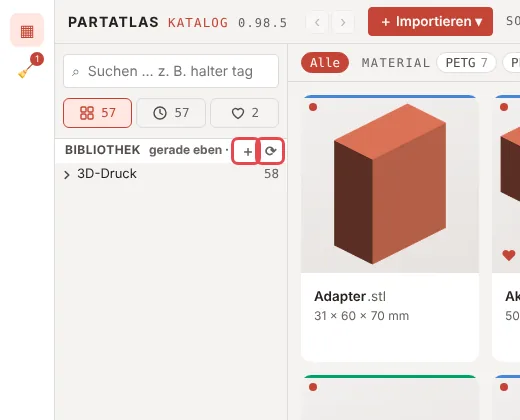
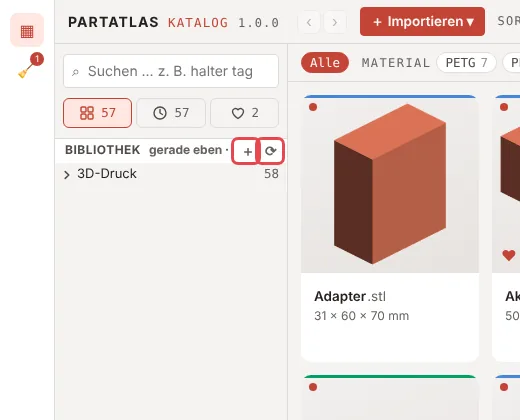
Fassung 1.0.0 vorbereitet: Update-Notiz fasst alles seit 0.95.7 zusammen, Vorschaufarbe ausgeblendet, Handbuch-Bilder neu
- neuigkeiten: ein Eintrag 1.0.0 statt der Zwischenfassungen, die nie auf
  main waren; Fliesstext im Fenster bricht nur zwischen Wörtern um.
- Einstellungen › Ansicht: „Farbe der Vorschaubilder“ ausgeblendet, bis sie
  wirkt.
- README: Rückweg über den Zweig fassung-0.95.7.

Claude-Session: https://claude.ai/code/session_01QtSDAZUfB2Sx37bC6sy5Tc

Changed region(s): [[0.6769, 0.0, 1.0, 0.0929], [0.4615, 0.031, 0.5538, 0.0619], [0.5846, 0.031, 0.6154, 0.0619]]

diff --git a/partatlas/web/baugruppen.js b/partatlas/web/baugruppen.js
@@ -621,11 +621,8 @@ async function einstellungen() {
       <div class="i-titel">UNTER DEM NAMEN</div>
       ${Object.entries(KACHEL_ZEILEN).map(([k, z]) => `<label><input type="checkbox" data-kachel-zeile="${k}" ${zustand.kachelZeilen.includes(k) ? "checked" : ""}> ${z.titel}</label>`).join("")}
       <p class="dim">Mehr Zeilen machen die Kachel etwas höher. Gilt für diesen Browser und wirkt sofort.</p>
-      <div class="i-titel">FARBE DER VORSCHAUBILDER</div>
-      <div class="farbfelder">${FARBEN.map(([n, h]) => `<button type="button" class="farbfeld ${h === e.vorschau_farbe ? "aktiv" : ""}" data-vf-farbe="${h}" title="${n}" style="background:${h}"></button>`).join("")}
-        <button type="button" class="knopf ${e.vorschau_farbe ? "" : "aktiv"}" data-vf-farbe="">Vorgabe</button></div>
-      <p class="dim">Für Modelle, deren Datei keine eigene Farbe mitbringt — Farben aus der Datei gehen immer vor.
-        Vorgesehen für eine spätere Fassung: die gewählte Farbe wird gespeichert, die Bilder ändern sich noch nicht.</p>`],
+      ${/* „Farbe der Vorschaubilder“ ausgeblendet bis sie wirkt (1.0, Anwender): gespeichert wird sie weiter (`vorschau_farbe`), die Bilder
+          ändern sich noch nicht — eine Einstellung ohne Wirkung gehört nicht in die Oberfläche. Zurück: den Abschnitt aus 0.98.6 holen. */ ""}`],
     ["einlesen", "Einlesen", `
       <div class="i-titel">TAGS</div>
       <label><input type="checkbox" id="ein-autotags" ${e.auto_tags ? "checked" : ""}> Tags aus dem Dateinamen vorschlagen (wie im 3MF Katalog)</label>

diff --git a/partatlas/web/app.css b/partatlas/web/app.css
@@ -161,6 +161,8 @@ dialog::backdrop { background: rgba(0, 0, 0, 0.5); }
 dialog h2 { margin: 0 0 10px; font-size: 16px; }
 dialog ul { padding-left: 18px; font-size: 13px; }
 dialog li { word-break: break-all; }
+/* „Neu in dieser Fassung“ ist Fliesstext, keine Pfade: nur zwischen Wörtern umbrechen (die Regel darüber gilt für Pfade in Dialogen). */
+dialog ul.neu li { word-break: normal; overflow-wrap: break-word; hyphens: auto; }
 dialog input[type=number] { padding: 6px 8px; background: var(--bg); color: var(--ink); border: 1px solid var(--line); border-radius: 4px; }
 dialog input[type=text] { width: 100%; padding: 6px 8px; background: var(--bg); border: 1px solid var(--line); border-radius: 4px; }
 dialog .knoepfe { display: flex; justify-content: flex-end; gap: 8px; margin-top: 14px; }

diff --git a/partatlas/neuigkeiten.py b/partatlas/neuigkeiten.py
@@ -8,27 +8,19 @@ Zeilen in der Sprache des Anwenders, was er sieht oder tun kann, nicht was im Co
 """
 
 NEUES = [
-    ("0.98.6", ["Das Handbuch ist neu geschrieben, mit Bildern der Oberfläche (hell und dunkel) — dazu neue Kapitel zu Ordnern und zur Tastatur.",
-                "Die Roadmap (⚑) zeigt den heutigen Stand: als Nächstes kommen Versionsverlauf und Backup mit Wiederherstellen."]),
-    ("0.98.5", ["Das Handbuch ist jetzt in partAtlas: der Knopf „?“ links unten oder F1 öffnet es in einem neuen Tab — in Bereinigen gleich beim passenden Kapitel."]),
-    ("0.98.4", ["Geht etwas Unerwartetes schief (Platte voll, Datei in einem anderen Programm geöffnet, Datei ausserhalb verschoben), sagt partAtlas "
-                "in einem Satz, was los ist, statt nur „Fehler 500“."]),
-    ("0.98.3", ["Umbenennen überall wie im Explorer: Klick auf den Namen eines schon gewählten Ordners oder Modells (nicht Doppelklick) — oder F2 — "
-                "öffnet ein Feld direkt am Namen. Bei Modellen bleibt die Endung. Das kleine Fenster zum Umbenennen gibt es nicht mehr.",
-                "Auch das Umbenennen eines Modells lässt sich mit „Rückgängig“ oder Strg+Z zurücknehmen."]),
-    ("0.98.2", ["Neuer Ordner: Rechtsklick auf einen Ordner › Neuer Ordner — er heisst „Neuer Ordner“ und steht gleich zum Umbenennen offen, wie im Explorer.",
-                "Der Ordnerbaum zeigt jetzt alle Unterordner, auch leere und solche ohne Modelle (grau, ohne Zahl). Ordner, die du ausserhalb anlegst, "
-                "erscheinen mit dem nächsten Einlesen."]),
-    ("0.98.1", ["Ordner verschieben: einen Ordner im Baum auf einen anderen ziehen oder Rechtsklick › Verschieben nach … — mit allem, was darin liegt. "
-                "Beim Ziehen klappt ein zugeklappter Ordner nach kurzem Verweilen auf. Rückgängig wie beim Umbenennen."]),
-    ("0.98.0", ["Ordner umbenennen wie im Dateimanager: Rechtsklick auf einen Ordner › Umbenennen oder F2 — der Name wird direkt im Baum bearbeitet, "
-                "Enter übernimmt, Esc bricht ab. Alles im Ordner geht mit; Tags, Drucke und Baugruppen bleiben.",
-                "Rückgängig mit dem Knopf in der Meldung oder Strg+Z. F2 auf einem Modell benennt das Modell um."]),
-    ("0.97.1", ["Einstellungen › Backup & Wiederherstellung zeigt, wo dein Katalog liegt (Tags, Drucke, Baugruppen, Notizen …), mit „Ordner zeigen“ — "
-                "nimm diesen Ordner in dein eigenes Backup auf."]),
-    ("0.96.0", ["Bereinigen ist neu gegliedert: oben „Aufräumen“ (Datei fehlt, Gleiche Datei, Unlesbar, Vorschläge), darunter „Aufbewahrt“ "
-                "(Archiv, Papierkorb). Jede Ansicht sagt oben, was sie zeigt und was ihre Aktionen tun.",
-                "„Duplikate“ heisst jetzt „Gleiche Datei“. Im Inspektor unter Datei öffnet ein Klick auf einen Ort den Ordner — dort löschst du eine überzählige Kopie."]),
+    ("1.0.0", ["Handbuch in partAtlas: Knopf „?“ links unten oder F1 öffnet es — neu geschrieben, mit Bildern der Oberfläche und Kapiteln zu "
+               "Ordnern und Tastatur.",
+               "Ordner wie im Explorer: Rechtsklick auf einen Ordner › Neuer Ordner, Umbenennen, Verschieben nach … — oder einen Ordner auf einen "
+               "anderen ziehen. Alles darin geht mit, Tags und Drucke bleiben. Der Baum zeigt jetzt alle Unterordner, auch leere (grau).",
+               "Umbenennen direkt am Namen, bei Ordnern und Modellen: F2, Rechtsklick › Umbenennen oder ein zweiter Klick auf den Namen eines schon "
+               "gewählten Eintrags. Das kleine Fenster dafür gibt es nicht mehr. Rückgängig mit Strg+Z oder dem Knopf in der Meldung.",
+               "Bereinigen neu gegliedert: „Aufräumen“ (Datei fehlt, Gleiche Datei — vorher „Duplikate“ —, Unlesbar, Vorschläge) und „Aufbewahrt“ "
+               "(Archiv, Papierkorb). Jede Ansicht sagt oben, was sie zeigt und was ihre Aktionen tun.",
+               "Einstellungen › Backup & Wiederherstellung zeigt, wo dein Katalog liegt (Tags, Drucke, Baugruppen, Notizen …) — nimm diesen Ordner "
+               "in dein eigenes Backup auf.",
+               "Geht etwas schief (Platte voll, Datei in einem anderen Programm offen), sagt partAtlas es in einem Satz statt „Fehler 500“.",
+               "Windows: start.bat zum Doppelklicken richtet partAtlas ein und startet es (siehe README).",
+               "Ausgeblendet: „Farbe der Vorschaubilder“ unter Einstellungen › Ansicht — sie wirkte noch nicht und kommt, wenn sie es tut."]),
     ("0.95.7", ["Kaufteile: Ein selbst angelegtes Kaufteil (etwa mit Tippfehler) lässt sich in der Auswahl „Kaufteile hinzufügen“ mit „löschen“ entfernen — "
                 "sofern es in keiner Baugruppe steckt. Die mitgelieferten Normteile bleiben."]),
     ("0.95.6", ["Beim ersten Start nach einem Update erscheint dieses Fenster mit dem, was neu ist. Ein Klick auf die Fassung oben links zeigt es wieder."]),

diff --git a/partatlas/version.py b/partatlas/version.py
@@ -1,3 +1,3 @@
 # Dritte Stelle steigt mit jedem Commit unter partatlas/, zweite bei
 # sichtbarer Änderung an Oberfläche oder Bestand (wie in pDMS).
-VERSION = "0.98.6"
+VERSION = "1.0.0"

diff --git a/README.md b/README.md
@@ -113,15 +113,14 @@ Kopie: `PARTATLAS_QUELLE=/pfad/zur/kopie python tests/…`.
 
 ## Zurück auf eine frühere Fassung
 
-Jede Fassung, die auf `main` kam, lässt sich wieder holen. Der Stand vor 0.95 liegt im Zweig `fassung-0.55.0`:
+Jede Fassung, die auf `main` kam, lässt sich wieder holen. Der Stand vor 1.0 liegt im Zweig `fassung-0.95.7`, der vor 0.95 in
+`fassung-0.55.0`. partAtlas beenden (Strg+C im Fenster), dann im Ordner `partAtlas`:
 
 ```bash
-./start.sh            # partAtlas beenden (Strg+C im Fenster), dann:
-git fetch origin && git checkout fassung-0.55.0  # die alte Fassung
-./start.sh
-git checkout main     # später wieder zur neuen
+git fetch origin && git checkout fassung-0.95.7   # die alte Fassung
+./start.sh                                         # Windows: .venv\Scripts\python -m partatlas (start.bat gibt es dort noch nicht)
+git checkout main                                  # später wieder zur neuen
 ```
 
-Die Datenbank bleibt dabei lesbar (keine neue Speicherform): 0.55 übersieht nur, was es noch nicht kennt (Archiv, Anhänge, Dateien an
-Drucken). Wer auch den Katalog zurück will: Einstellungen › Backup & Wiederherstellung › eine automatische Sicherung von vor dem
-Wechsel „Zurückholen“ (in 0.55 über `python -m partatlas.sicherung --zurueck NAME`, bei beendetem partAtlas).
+Die Datenbank bleibt dabei lesbar (keine neue Speicherform): eine ältere Fassung übersieht nur, was sie noch nicht kennt. Wer auch den
+Katalog zurück will: Einstellungen › Backup & Wiederherstellung › eine automatische Sicherung von vor dem Wechsel „Zurückholen“.
